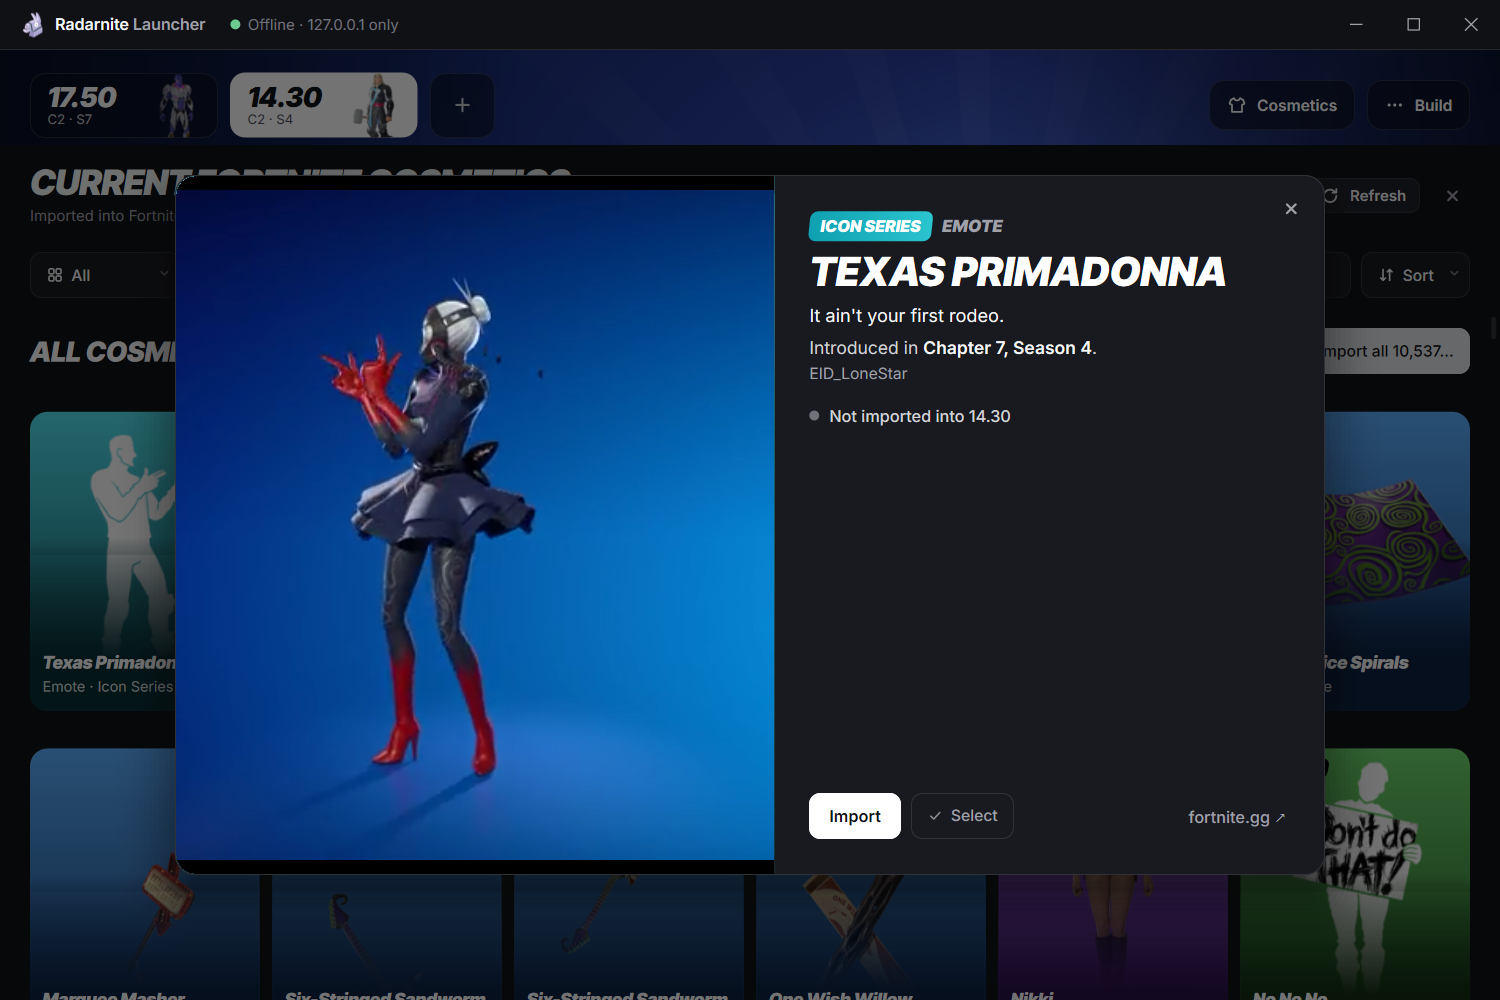
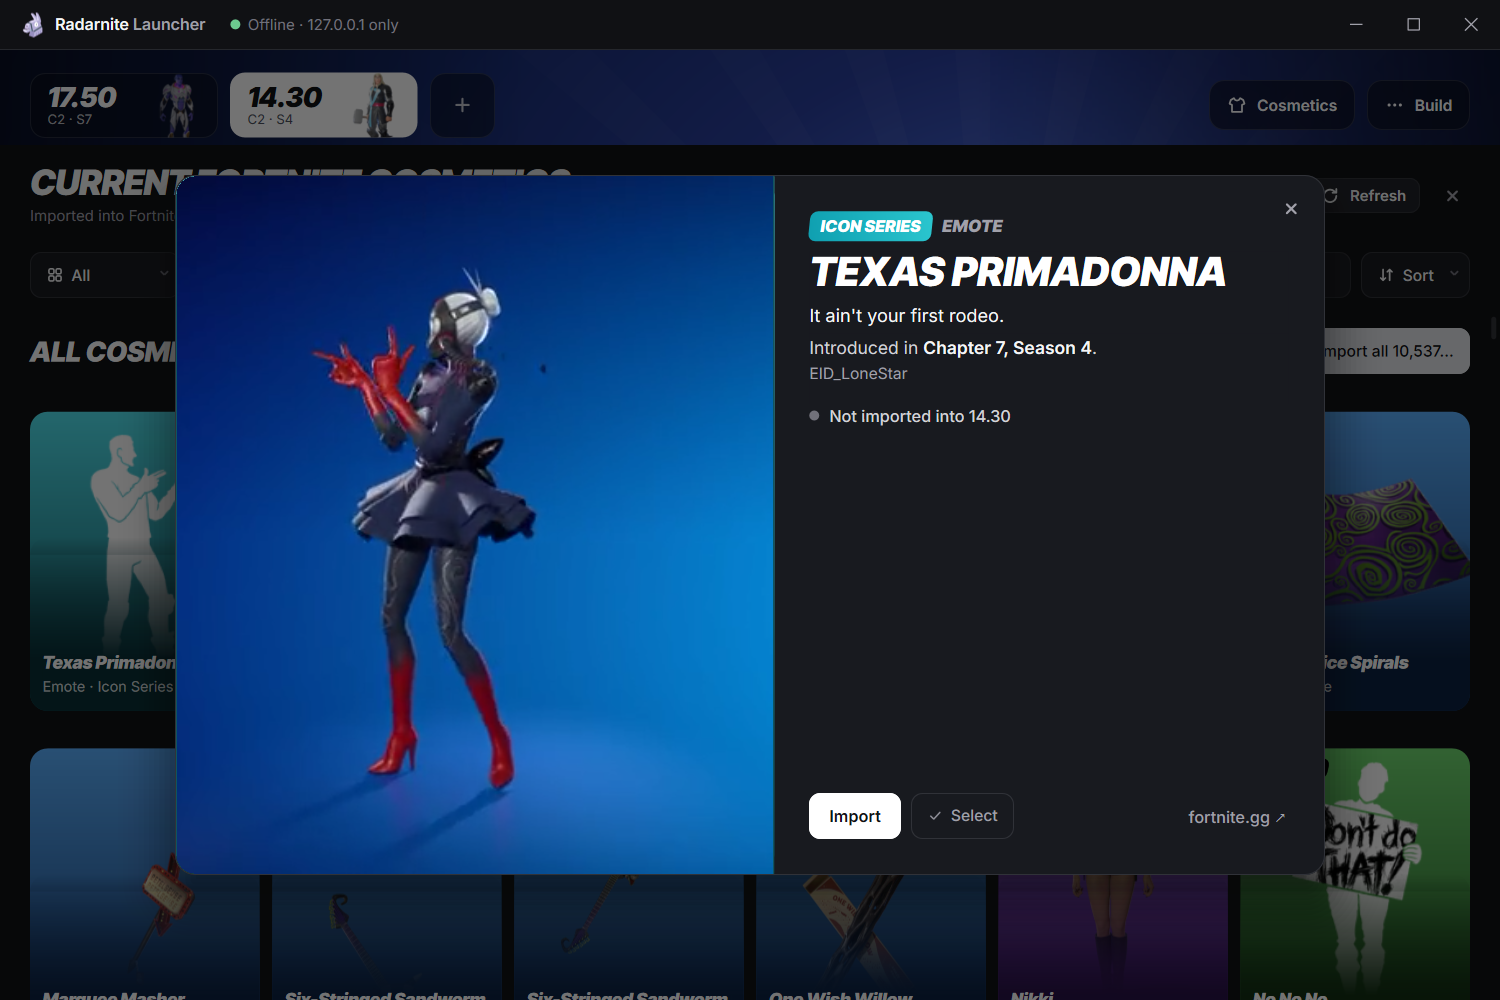
Native UI: builds shown by version; the preview's clip fills its media area
The tab, hero and launch button show the build's version (3.6), with the
folder name in the meta line and tooltip when it differs; the hero number
shrinks to the room left of the side panel. The clip is cropped to fill
the media area when the trim is small, instead of black bars above and
below.

Selftest: 0 failures.

diff --git a/native/ui/ui.cpp b/native/ui/ui.cpp
@@ -79,6 +79,11 @@ std::wstring seasonShort(int major, int minor) {
     if (major <= 31) return fmt(L"C5 · S%d", major - 27);
     return fmt(L"%d.x", major);
 }
+// The version a build is shown as: "3.6", never the raw build string or the folder ("3.6-CL-4019403")
+std::wstring verLabel(const Build& b) {
+    if (b.major && (b.version.find(L"-CL-") != std::wstring::npos || b.version.empty() || b.version == L"?")) return fmt(L"%d.%d", b.major, b.minor);
+    return b.version;
+}
 std::wstring caps(const std::wstring& s) { std::wstring o = s; for (auto& c : o) c = (wchar_t)towupper(c); return o; }
 // The button a menu belongs to (focus goes back to it)
 int menuOwner(int menu) { return menu == 1 ? ID_ADD : menu == 2 ? ID_BUILDMENU : menu == 3 ? ID_COSMETICS : 0; }
@@ -1051,7 +1056,7 @@ void App::drawTop(float y, float W) {
     for (int i = 0; i < n; i++) {
         if (loaded_) {
             const Build& bd = st_.builds[i];
-            tw[i] = std::min(220.f, std::max(150.f, 28 + 2 + std::max(textW(bd.version, vf, -0.44f), textW(seasonShort(bd.major, bd.minor), sf))));
+            tw[i] = std::min(220.f, std::max(150.f, 28 + 2 + std::max(textW(verLabel(bd), vf, -0.44f), textW(seasonShort(bd.major, bd.minor), sf))));
         }
         total += tw[i] + (i ? 10 : 0);
     }
@@ -1096,7 +1101,7 @@ void App::drawTop(float y, float W) {
         }
         if (!on) box(r, 12, 0, 0, C::white, .12f + .14f * hv);
         float ty = y + (52 - 22 - 12.6f) / 2;
-        text(bd.version, vf, r.left + 14, ty, tw[i] - 28, 22, on ? INK : C::white, 0, -0.44f);
+        text(verLabel(bd), vf, r.left + 14, ty, tw[i] - 28, 22, on ? INK : C::white, 0, -0.44f);
         text(seasonShort(bd.major, bd.minor), sf, r.left + 14, ty + 22, tw[i] - 28, 12.6f, on ? 0x4B5160 : C::white, 0, 0, on ? 1.f : .7f);
         hit(id, r, F_FOCUS | F_HAND, 12);
     }
@@ -1213,6 +1218,10 @@ void App::drawHero(float x, float right, float top, float bottom) {
             float mx = x + pw + 10, mw = std::max(0.f, x + w - mx), my = sy + (21 - 17.4f) / 2;
             std::wstring meta = no ? b->lobbyWhy
                               : fmt(L"CL %u · UE %ls · %ls", b->cl, b->engine.c_str(), b->cosmetics ? (thousands(b->cosmetics) + L" cosmetics").c_str() : L"no cosmetics list yet");
+            if (!no && b->name != verLabel(*b)) {
+                bool hasCl = b->cl && b->name.find(std::to_wstring(b->cl)) != std::wstring::npos;
+                meta = b->name + L" · " + (hasCl ? meta.substr(meta.find(L"UE ")) : meta);
+            }
             text(meta, mf, mx, my, mw, 17.4f, C::white, 0, 0, .7f);
             hit(ID_META, rc(mx, my, std::min(mw, textW(meta, mf)), 17.4f), 0, 0);   // tooltip only
         }
@@ -1227,7 +1236,7 @@ void App::drawHero(float x, float right, float top, float bottom) {
     struct Notice { int cls; std::wstring html; int btn; const wchar_t* label; };
     std::vector<Notice> notices;
     bool fwOk = b->firewall == L"OK";
-    if (b->lobby == Support::No) notices.push_back({ 2, L"**Fortnite " + b->version + L" cannot be launched.** " + b->lobbyWhy + L".", 0, nullptr });
+    if (b->lobby == Support::No) notices.push_back({ 2, L"**Fortnite " + verLabel(*b) + L" cannot be launched.** " + b->lobbyWhy + L".", 0, nullptr });
     else {
         if (!fwOk) notices.push_back({ 1, L"**Firewall rules missing.** " + b->firewall + L". They are created before launch (administrator prompt).", ID_NOTICE_FW, L"Create now" });
         if (!b->cosmetics) notices.push_back({ 1, L"**No cosmetics list yet.** Only the default items will show in the locker.", ID_NOTICE_COS, L"Generate" });
@@ -1244,8 +1253,9 @@ void App::drawHero(float x, float right, float top, float bottom) {
 
     // the version: as big as fits the width and what is left of the height (168 at most)
     Font v100{ Face::Display, 100, 900, true };
-    float vw100 = textW(b->version, v100, -5.f);
-    float byW = vw100 > 0 ? w / vw100 * 98 : 168.f;
+    std::wstring ver = verLabel(*b);
+    float vw100 = textW(ver, v100, -5.f);
+    float byW = vw100 > 0 ? (w - 8) / vw100 * 96 : 168.f;   // the italic leans out: a little room on the right
     float room = seaTop - 14 - top - notesH;
     bool showSeason = true;
     float size = std::min({ 168.f, byW, (room - 21 - 16) / .8f });
@@ -1253,7 +1263,7 @@ void App::drawHero(float x, float right, float top, float bottom) {
     bool showVer = size >= 32;
     float vTop = seaTop - 14 - .8f * size;
     if (showVer) {
-        text(b->version, Font{ Face::Display, size, 900, true }, x, vTop, w + size, .8f * size, C::white, 0, -.05f * size);
+        text(ver, Font{ Face::Display, size, 900, true }, x, vTop, w + size, .8f * size, C::white, 0, -.05f * size);
         float ny = vTop;
         if (showSeason) {
             std::wstring s = season(b->major, b->minor);
@@ -1322,7 +1332,7 @@ void App::drawLaunch(D2D1_RECT_F pr, uint32_t glow) {
     // ▶ LAUNCH <small>version</small>: italic 900 34px, gap 14px; the version in 14px #5b6170
     Font pf{ Face::Display, 34, 900, true }, sf{ Face::Display, 14, 900, true };
     const wchar_t* pl = stopStyle ? L"STOP" : L"LAUNCH";
-    std::wstring ver = stopStyle || !b ? L"" : b->version;
+    std::wstring ver = stopStyle || !b ? L"" : verLabel(*b);
     float iconS = stopStyle ? 30.f : 40.f, gap = 14;
     float g0 = 4.5f / 16 * iconS, gw = (stopStyle ? 7.f : 8.7f) / 16 * iconS;   // the glyph inside the icon box
     float ptw = textW(pl, pf, -0.34f), stw = ver.empty() ? 0 : textW(ver, sf);
@@ -1526,7 +1536,7 @@ float App::panelBody(float x, float y0, float w) {
         if (c.botsAI) {   // the page's warning when the bots' AI is on
             y += 10;
             Font wf{ Face::UI, 11.5f, 400, false };
-            std::wstring note = L"**Bot AI is on.** On " + b->version + L" it crashes the match server a few seconds after it starts.";
+            std::wstring note = L"**Bot AI is on.** On " + verLabel(*b) + L" it crashes the match server a few seconds after it starts.";
             float th = rich(note, wf, 0, 0, w - 24, 16.5f, C::warnText, C::white, 0, false);
             icon(Icon::Warn, x, y + 0.5f, 16, C::warn);
             rich(note, wf, x + 24, y, w - 24, 16.5f, C::warnText, C::white);
@@ -1826,7 +1836,7 @@ std::wstring App::tooltip(int id) const {
     case ID_CELL0 + 2: return L"Read from the build's own data";
     case ID_CELL0 + 3: return b ? (b->firewall == L"OK" ? L"Every exe of the build is blocked from the internet" : b->firewall) : L"";
     }
-    if (id >= ID_BUILD0 && id - ID_BUILD0 < (int)st_.builds.size()) { const Build& x = st_.builds[id - ID_BUILD0]; return x.version + L" · " + season(x.major, x.minor); }
+    if (id >= ID_BUILD0 && id - ID_BUILD0 < (int)st_.builds.size()) { const Build& x = st_.builds[id - ID_BUILD0]; std::wstring v = verLabel(x); return v + (x.name != v ? L" (" + x.name + L")" : L"") + L" · " + season(x.major, x.minor); }
     return L"";
 }
 

diff --git a/native/ui/video.cpp b/native/ui/video.cpp
@@ -134,12 +134,28 @@ struct Clip {
     HWND parent = nullptr, hwnd = nullptr;
     IMFMediaEngine* engine = nullptr;
     int radius = 0;
+    MFARGB border = {};
     LPARAM gen = 0;
     bool ready = false, visible = true;
     void apply() {
         bool show = ready && visible;
         if (show && engine) engine->Play(); else if (engine) engine->Pause();
         ShowWindow(hwnd, show ? SW_SHOWNA : SW_HIDE);
+    }
+    // object-fit: cover when it only trims a little (no bands above and below), else contain on the border color
+    void fit() {
+        IMFMediaEngineEx* ex = nullptr;
+        if (!engine || FAILED(engine->QueryInterface(__uuidof(IMFMediaEngineEx), (void**)&ex))) return;
+        RECT c; GetClientRect(hwnd, &c);
+        DWORD vw = 0, vh = 0;
+        MFVideoNormalizedRect src = { 0, 0, 1, 1 };
+        if (SUCCEEDED(engine->GetNativeVideoSize(&vw, &vh)) && vw && vh && c.right > 0 && c.bottom > 0) {
+            float k = ((float)c.right / c.bottom) / ((float)vw / vh);   // < 1: the clip is wider than the area
+            if (k < 1 && k >= .8f) { src.left = (1 - k) / 2; src.right = 1 - src.left; }
+            else if (k > 1 && 1 / k >= .8f) { src.top = (1 - 1 / k) / 2; src.bottom = 1 - src.top; }
+        }
+        ex->UpdateVideoStream(&src, nullptr, &border);
+        ex->Release();
     }
     void region() {
         // the preview's left corners are rounded: so is the clip
@@ -155,13 +171,14 @@ LRESULT CALLBACK clipProc(HWND h, UINT m, WPARAM w, LPARAM l) {
     case WM_MOUSEACTIVATE: return MA_NOACTIVATE;
     case WM_ERASEBKGND: return 1;
     case WM_PAINT: { PAINTSTRUCT ps; BeginPaint(h, &ps); EndPaint(h, &ps); return 0; }
-    case WM_SIZE: g_clip.region(); return 0;
+    case WM_SIZE: g_clip.region(); if (g_clip.ready) g_clip.fit(); return 0;
     case WM_TIMER: if (!IsWindow(g_clip.parent)) DestroyWindow(h); return 0;   // the launcher's window is gone
     case WM_CLIP_VISIBLE: g_clip.visible = w != 0; g_clip.apply(); return 0;
     case WM_CLIP_EVENT:
         if (w == MF_MEDIA_ENGINE_EVENT_ERROR) { DestroyWindow(h); return 0; }   // the launcher sees the exit: image stays
         if (!g_clip.ready) {
             g_clip.ready = true;
+            g_clip.fit();
             g_clip.apply();
             PostMessageW(g_clip.parent, WM_APP_VIDEO, 1, g_clip.gen);
         }
@@ -180,6 +197,7 @@ int clipMain(int argc, wchar_t** argv) {
     int x = _wtoi(argv[3]), y = _wtoi(argv[4]), w = _wtoi(argv[5]), h = _wtoi(argv[6]);
     c.radius = _wtoi(argv[7]);
     uint32_t border = (uint32_t)wcstoul(argv[8], nullptr, 10);
+    c.border = { (BYTE)(border & 255), (BYTE)((border >> 8) & 255), (BYTE)((border >> 16) & 255), 255 };
     c.gen = (LPARAM)_wtoi64(argv[9]);
     std::wstring url = argv[10];
     if (!IsWindow(c.parent) || url.compare(0, 8, L"https://")) return 3;
@@ -213,12 +231,7 @@ int clipMain(int argc, wchar_t** argv) {
         c.engine->SetMuted(TRUE);
         c.engine->SetLoop(TRUE);
         c.engine->SetAutoPlay(TRUE);
-        IMFMediaEngineEx* ex = nullptr;
-        if (SUCCEEDED(c.engine->QueryInterface(__uuidof(IMFMediaEngineEx), (void**)&ex))) {
-            MFARGB b = { (BYTE)(border & 255), (BYTE)((border >> 8) & 255), (BYTE)((border >> 16) & 255), 255 };
-            ex->UpdateVideoStream(nullptr, nullptr, &b);
-            ex->Release();
-        }
+        c.fit();
         BSTR s = SysAllocString(url.c_str());
         ok = s && SUCCEEDED(c.engine->SetSource(s));
         SysFreeString(s);

diff --git a/native/ui/mock_api.cpp b/native/ui/mock_api.cpp
@@ -220,7 +220,7 @@ public:
         else if (id.rfind(L"16-", 0) == 0) { st.builds = one(); st.config.mode = L"bots"; st.selected = L"17.50"; hasSession = true; se = running(MatchPhase::Storm, L"Storm"); }
         else if (id.rfind(L"17-", 0) == 0) { st.builds = one(); st.config.mode = L"bots"; st.selected = L"17.50"; hasSession = true; se = running(MatchPhase::Down, L"The match server stopped"); post = logs(12); }
         else if (id.rfind(L"18-", 0) == 0) {
-            Build a = mk(L"3.6-CL-4019403", 3, 6, 4019403, L"4.20"); a.dir = L"S:\\FortniteBuilds\\3.6-CL-4019403\\Fortnite"; a.match = Support::Yes; a.matchWhy = kS3; a.cosmetics = 0; a.firewall = L"firewall rules missing for 6 programs";
+            Build a = mk(L"3.6-CL-4019403", 3, 6, 4019403, L"4.20"); a.version = L"3.6"; a.dir = L"S:\\FortniteBuilds\\3.6-CL-4019403\\Fortnite"; a.match = Support::Yes; a.matchWhy = kS3; a.cosmetics = 0; a.firewall = L"firewall rules missing for 6 programs";
             Build b = mk(L"14.30", 14, 30, 15341163, L"4.26"); b.match = Support::Yes; b.matchWhy = kS3; b.cosmetics = 4100;
             st.builds = { a, b, b1750() }; st.selected = L"3.6-CL-4019403";
             LogLine l; l.level = Level::Warn; l.ts = L"22:09:58";
